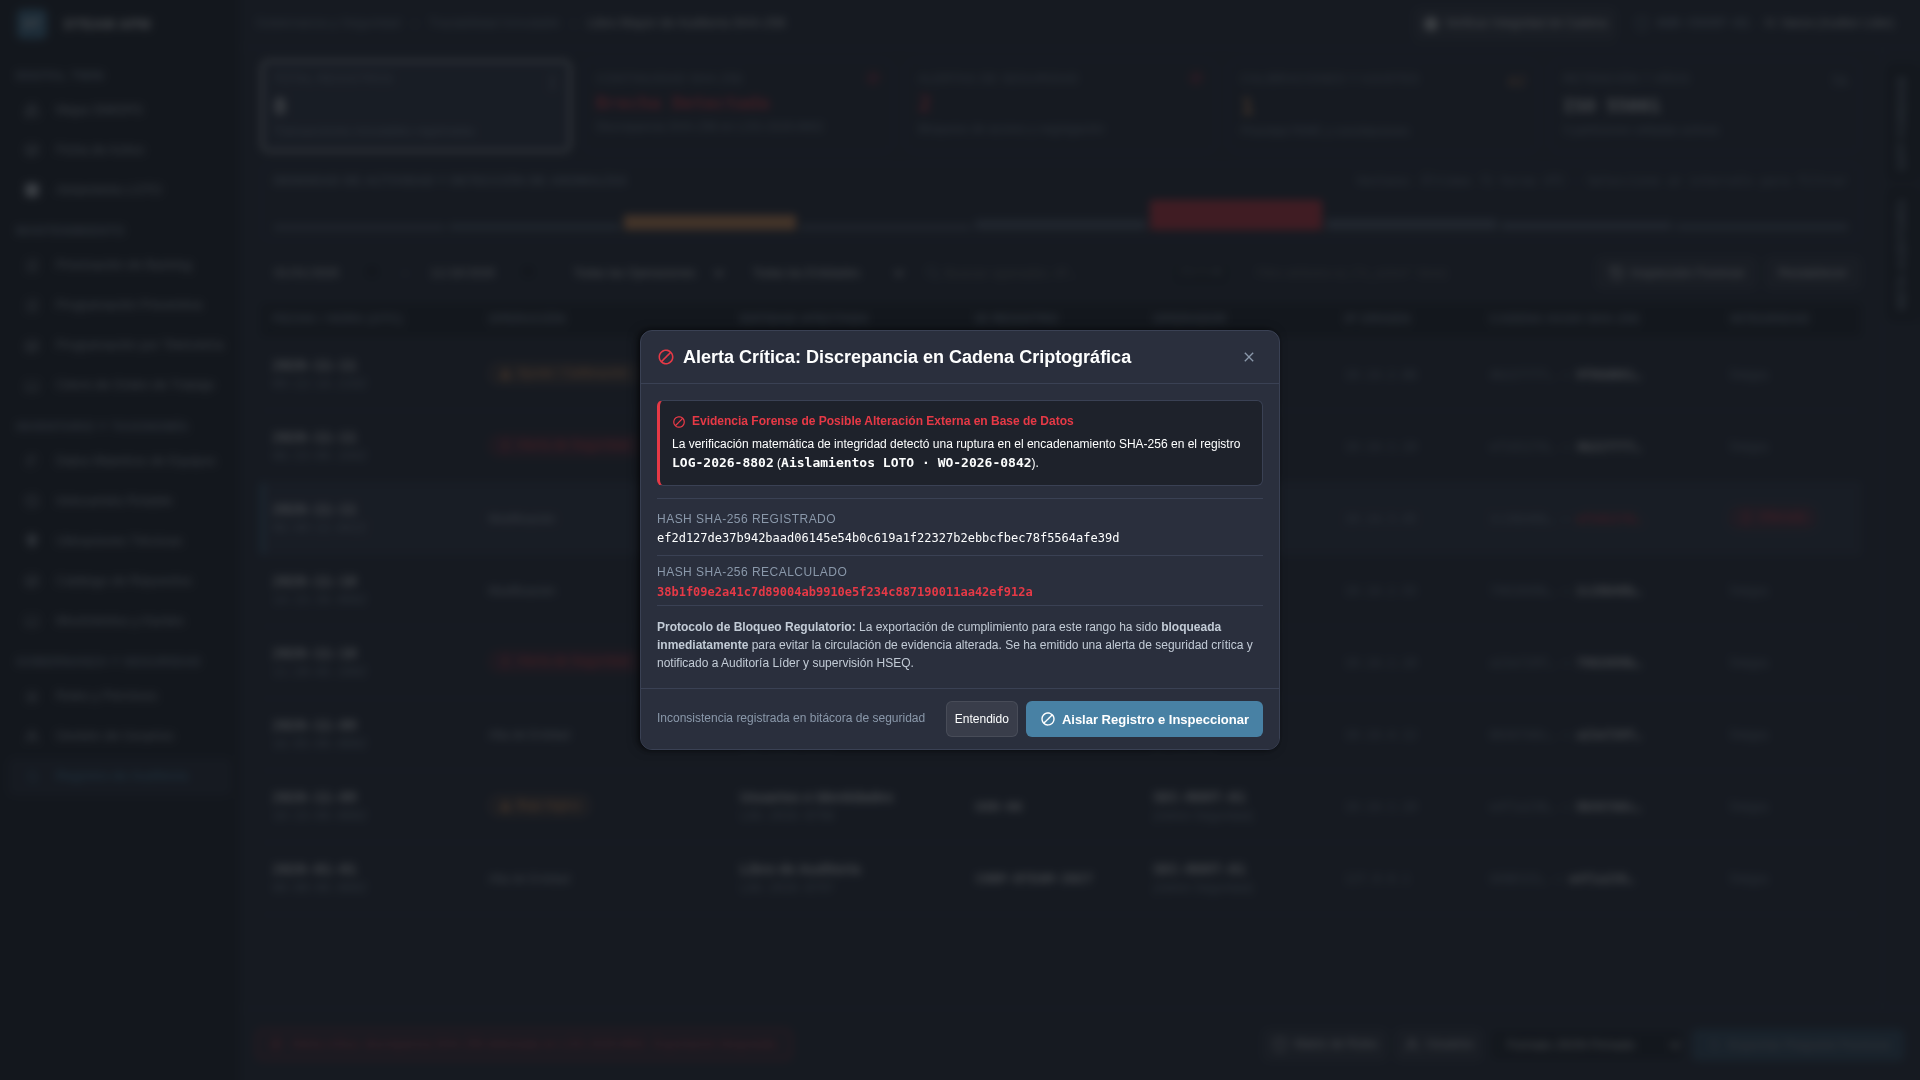
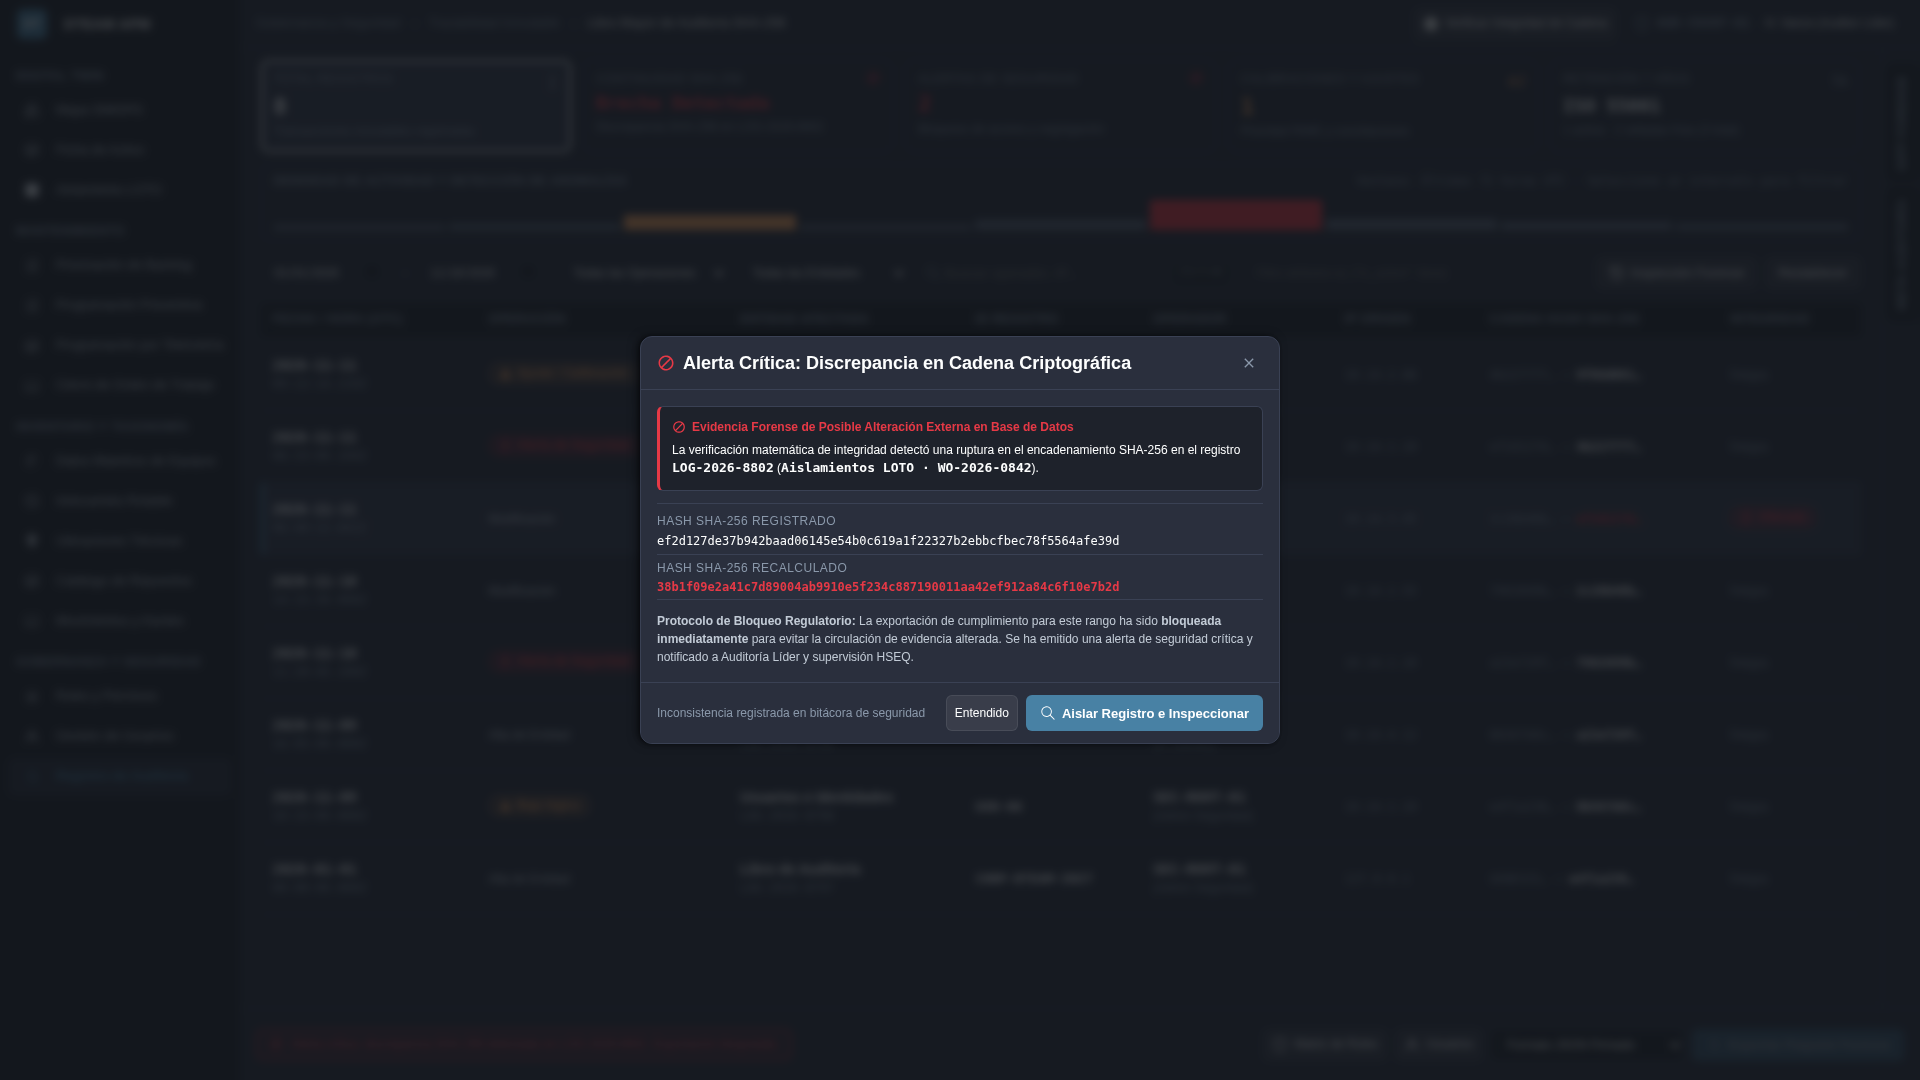
fix(adm-032,arq,erd): remediate audit findings and adopt dynamic quarterly audit partitions

Changed region(s): [[0.3438, 0.3056, 0.6562, 0.7028]]

diff --git a/ui-ux/screens/adm/SCR-ADM-032.md b/ui-ux/screens/adm/SCR-ADM-032.md
@@ -31,7 +31,7 @@ status: Stable
 * **Web Portal Workspace Invariant:** Operates within the unified Blazor Web Portal shell alongside an **on-demand, closed-by-default** right-hand workspace dock (`CMP-12` hosting `CMP-08`/`CMP-09` and `CMP-11`) using the vertical tab spine pattern (`CLS = 0`). The dock initializes closed (`IsOpen = false`), opens on ledger row selection, vertical spine tab selection, or via `[Forensic Inspection]` (`CMP-04`), and closes cleanly on outside click, close trigger, or `Escape`.
 * **Upstream & Downstream Navigation Invariants ([DT-UI-NAV-DOC-001 §5](../../DT-UI-NAV-DOC-001.md#5-transition-matrix-and-access-control-rbac)):**
   * **Upstream Continuity:** Accessed from the Web Portal Governance sidebar, from the RBAC Matrix ([SCR-ADM-013](SCR-ADM-013.md)) via `"Audit Modification"` (`L2` $\to$ `L2`), or from User Management ([SCR-ADM-014](SCR-ADM-014.md)) via `"Forensic Audit"` (`L2` $\to$ `L2`).
-  * **Downstream Transitions:** Routes back to the RBAC Matrix ([SCR-ADM-013](SCR-ADM-013.md)) and User Management ([SCR-ADM-014](SCR-ADM-014.md)) via sticky footer handoffs (`CMP-13`), supports URL query pre-filtering (`EntityType`, `EntityId`, `EventType`) for deep-linked entity investigations (such as `EquipmentUnit` records from [SCR-INV-005](../inv/SCR-INV-005.md) or RIME `ADJUST` calibrations from [SCR-MTTO-026](../mtto/SCR-MTTO-026.md)), and exports standalone signed `CSV` / `JSON` audit packages (`FR-353`).
+  * **Downstream Transitions:** Routes back to the RBAC Matrix ([SCR-ADM-013](SCR-ADM-013.md)) and User Management ([SCR-ADM-014](SCR-ADM-014.md)) via sticky footer handoffs (`CMP-13`), supports URL query pre-filtering (`EntityType`, `EntityId`, `ActionType`) for deep-linked entity investigations (such as `EquipmentUnit` records from [SCR-INV-005](../inv/SCR-INV-005.md) or RIME `ADJUST` calibrations from [SCR-MTTO-026](../mtto/SCR-MTTO-026.md)), and exports standalone signed `CSV` / `JSON` audit packages (`FR-353`).
 
 ---
 
@@ -282,7 +282,7 @@ sequenceDiagram
 #### 5.3.2. Chained SHA-256 Verification & Tamper-Evident Breach Protocol (`FR-346`, `FR-351`, `AF-001`, `ADR-003`)
 1. **Hash-Chain Mathematical Contract (`AuditLog.VerifyIntegrity()`, [DT-DM-DOC-002 §6.3](../../../domain-models/class/DT-DM-DOC-002.md#63-auditlog-entity)):**
    For chronological record $k$ ($k \ge 1$, where $H_0 = \text{"GENESIS"}$ per [DT-ERD-DOC-001 §3.5.1](../../../domain-models/entity-relationship/DT-ERD-DOC-001.md#351-audit_logs)):
-   $$H_k = \text{SHA-256}\left(H_{k-1} \parallel \text{Id}_k \parallel \text{UserId}_k \parallel \text{EventType}_k \parallel \text{EntityType}_k \parallel \text{EntityId}_k \parallel \text{TimestampUtc}_k \parallel \text{CanonicalJson}(\text{PrevState}_k) \parallel \text{CanonicalJson}(\text{NewState}_k)\right)$$
+   $$H_k = \text{SHA-256}\left(H_{k-1} \parallel \text{Id}_k \parallel \text{UserId}_k \parallel \text{ActionType}_k \parallel \text{EntityType}_k \parallel \text{EntityId}_k \parallel \text{TimestampUtc}_k \parallel \text{CanonicalJson}(\text{PrevState}_k) \parallel \text{CanonicalJson}(\text{NewState}_k)\right)$$
 2. **Tamper Breach Quarantine (`AF-001`):** If $H_k^{\text{recalculated}} \ne H_k^{\text{stored}}$ or $H_{k-1}^{\text{linked}} \ne H_{k-1}^{\text{stored}}$, `CMP-10` immediately blocks `[Export Forensic Package]` in `CMP-13`, highlights the exact broken link, and dispatches a `SECURITY_ALERT` notification (`TR-003-NFR-380`).
 
 #### 5.3.3. Self-Referential Meta-Auditing & 7-Year Regulatory Retention (`FR-350`, `FR-353`, `FR-358`, `NFR-359`, `NFR-360`)
@@ -335,8 +335,8 @@ public string? InitialEntityTypeFilter { get; set; }
 [Parameter, SupplyParameterFromQuery(Name = "entityId")]
 public Guid? InitialEntityIdFilter { get; set; }
 
-[Parameter, SupplyParameterFromQuery(Name = "eventType")]
-public AuditActionType? InitialEventTypeFilter { get; set; }
+[Parameter, SupplyParameterFromQuery(Name = "actionType")]
+public AuditActionType? InitialActionTypeFilter { get; set; }
 ```
 
 #### 7.2.2. Subcomponent Parameter Contracts (`CMP-01` to `CMP-13`)
@@ -410,14 +410,14 @@ public EventCallback<AuditLogEntryDto> OnEntrySelected { get; set; }
 
 // CMP-07: AuditEventBadge.razor
 [Parameter]
-public required AuditActionType EventType { get; set; }
+public required AuditActionType ActionType { get; set; }
 
 [Parameter]
 public required ChainIntegrityStatus IntegrityStatus { get; set; }
 
 // CMP-12: AuditWorkspaceDock.razor
 [Parameter]
-public bool IsOpen { get; set; }
+public bool IsOpen { get; set; } = false;
 
 [Parameter]
 public AuditDockTab ActiveTab { get; set; } = AuditDockTab.FORENSIC_DIFF;
@@ -463,7 +463,7 @@ public EventCallback OnCloseRequested { get; set; }
 
 // CMP-11: MetaAuditAndRetentionPane.razor (FR-350, FR-358, NFR-360)
 [Parameter]
-public required IReadOnlyList<AuditLogEntryDto> RecentMetaAuditQueries { get; set; }
+public required IReadOnlyList<MetaAuditQueryEntryDto> RecentMetaAuditQueries { get; set; }
 
 [Parameter]
 public required IReadOnlyList<AuditRetentionPartitionDto> RetentionPartitions { get; set; }
@@ -473,7 +473,7 @@ public required IReadOnlyList<AuditRetentionPartitionDto> RetentionPartitions { 
 public required ChainIntegrityStatus OverallChainStatus { get; set; }
 
 [Parameter]
-public required int VerifiedRecordsCount { get; set; }
+public required long VerifiedRecordsCount { get; set; }
 
 [Parameter]
 public required string HeadIntegrityHash { get; set; }
@@ -547,7 +547,7 @@ public record AuditLogWorkspaceDto
     public required IReadOnlyList<AuditActivityBucketDto> TrendBuckets { get; init; }
     public required IReadOnlyList<AuditLogEntryDto> Entries { get; init; }
     public required IReadOnlyList<AuditRetentionPartitionDto> RetentionPartitions { get; init; }
-    public required IReadOnlyList<AuditLogEntryDto> RecentMetaAuditQueries { get; init; }
+    public required IReadOnlyList<MetaAuditQueryEntryDto> RecentMetaAuditQueries { get; init; }
     public required string HeadIntegrityHash { get; init; }
 }
 
@@ -565,9 +565,10 @@ public record AuditLogQueryFilterDto
 {
     public DateTimeOffset? DateFromUtc { get; init; }
     public DateTimeOffset? DateToUtc { get; init; }
-    public AuditActionType? EventType { get; init; }
+    public AuditActionType? ActionType { get; init; }
     public string? EntityType { get; init; }
     public Guid? EntityId { get; init; }
+    public string? SearchQuery { get; init; }
     public string? OperatorUsername { get; init; }
     public string? IpAddress { get; init; }
     public string? JsonbContainmentExpression { get; init; }
@@ -585,11 +586,14 @@ public record AuditActivityBucketDto
 public record AuditLogEntryDto
 {
     public required Guid Id { get; init; }
+    public required string AuditReferenceCode { get; init; }
     public Guid? UserId { get; init; }
     public required string OperatorBadgeCode { get; init; }
-    public required AuditActionType EventType { get; init; }
+    public required string OperatorFullName { get; init; }
+    public required AuditActionType ActionType { get; init; }
     public required string EntityType { get; init; }
     public required Guid EntityId { get; init; }
+    public required string EntityDisplayCode { get; init; }
     public required DateTimeOffset TimestampUtc { get; init; }
     public string? IpAddress { get; init; }
     public required string PreviousHash { get; init; }
@@ -612,12 +616,14 @@ public record AuditStatePropertyDiffDto
 public record AuditLogDetailDto
 {
     public required Guid Id { get; init; }
+    public required string AuditReferenceCode { get; init; }
     public Guid? UserId { get; init; }
     public required string OperatorBadgeCode { get; init; }
     public required string OperatorFullName { get; init; }
-    public required AuditActionType EventType { get; init; }
+    public required AuditActionType ActionType { get; init; }
     public required string EntityType { get; init; }
     public required Guid EntityId { get; init; }
+    public required string EntityDisplayCode { get; init; }
     public required DateTimeOffset TimestampUtc { get; init; }
     public string? IpAddress { get; init; }
     public string? UserAgent { get; init; }
@@ -661,6 +667,14 @@ public record AuditRetentionPartitionDto
     public required string PartitionAnchorHash { get; init; }
     public required bool IsColdArchived { get; init; }
     public required ChainIntegrityStatus IntegrityStatus { get; init; }
+}
+
+public record MetaAuditQueryEntryDto
+{
+    public required string MetaReferenceCode { get; init; }
+    public required string OperatorBadgeCode { get; init; }
+    public required DateTimeOffset ExecutedAtUtc { get; init; }
+    public required string QueryDescription { get; init; }
 }
 ```
 

diff --git a/architecture/DT-ARQ-DB-DOC-001.md b/architecture/DT-ARQ-DB-DOC-001.md
@@ -92,5 +92,5 @@ When an Application Command must mutate state across multiple schemas atomically
 Domain events published via `IEventBus` (`WorkOrderStatusChanged`, `AssetSwapCompletedEvent`, `EquipmentDecommissioned`) execute **in-process and pre-commit** within the active shared `DbTransaction` whenever the subscriber enforces a synchronous domain invariant (such as deducting reserved stock in `inv` upon Work Order technical closure in `mtto`). Side-effect handlers that communicate with external I/O (such as `INotificationPort` SignalR broadcasts) are dispatched **post-commit** only after `dbTransaction.CommitAsync()` succeeds.
 
 ### 3.11. 7-Year Declarative Range Partitioning and Cold-Archive Anchoring ([ADM-032](../requirements/user-stories/adm/ADM-032.md), [FR-350](../requirements/user-stories/adm/ADM-032.md#functional-requirements-fr), [FR-358](../requirements/user-stories/adm/ADM-032.md#functional-requirements-fr))
-To sustain sub-second forensic queries (`NFR-355`) and enforce the mandatory 7-year regulatory retention window (`TR-001-FR-367`, ISO 55001 Clause 7.5), `adm.audit_logs` is partitioned declaratively in PostgreSQL 18 by quarterly UTC ranges (`PARTITION BY RANGE (timestamp)`), enforcing composite uniqueness `(id, timestamp)` and `(integrity_hash, timestamp)` across all child partitions. The baseline physical layout provisions quarterly range partitions (`adm.part_audit_2026_q2`, `adm.part_audit_2026_q3`, `adm.part_audit_2026_q4`) together with a mandatory catch-all default partition (`adm.part_audit_default`, `PARTITION OF adm.audit_logs DEFAULT`) so `INSERT` transactions never fail if an event lands outside pre-provisioned boundaries prior to next-quarter rotation. As quarterly windows age out of the active hot tier, background archival seals the segment into encrypted cold WORM storage (`TR-002`) and records the segment's boundary metadata (`partition_name`, `period_start`, `period_end`, `record_count`, `partition_anchor_hash`, `is_cold_archived`, `integrity_status`, `sealed_at`) in `adm.audit_retention_partitions`—indexed via the descending composite B-Tree index `idx_audit_retention_partitions_period (period_start DESC, period_end DESC)` for sub-millisecond active/sealed window resolution—preserving unbroken SHA-256 chain verification (`ADR-003`) across hot and cold partitions.
+To sustain sub-second forensic queries (`NFR-355`) and enforce the mandatory 7-year regulatory retention window (`TR-001-FR-367`, ISO 55001 Clause 7.5), `adm.audit_logs` is partitioned declaratively in PostgreSQL 18 by quarterly UTC ranges (`PARTITION BY RANGE (timestamp)`), enforcing composite uniqueness `(id, timestamp)` and `(integrity_hash, timestamp)` across all child partitions alongside defense-in-depth WORM hardening (`ENABLE` + `FORCE ROW LEVEL SECURITY` and `REVOKE UPDATE, DELETE, TRUNCATE ON adm.audit_logs` and child partitions from `PUBLIC` for non-superuser `NOBYPASSRLS` application roles). Instead of static hardcoded dates, baseline DDL deployment executes an idempotent dynamic PL/pgSQL bootstrap (`DO $$`) deriving quarterly UTC boundaries (`date_trunc('year', timezone('UTC', now()))`) to pre-provision all four quarters of the current calendar year (`Q1`–`Q4`) plus a next-year `Q1` lookahead (`adm.part_audit_<YYYY>_q<N>`), paired with a mandatory catch-all default partition (`adm.part_audit_default`, `PARTITION OF adm.audit_logs DEFAULT`) so `INSERT` transactions never fail before scheduled quarterly rotation; ongoing future quarters are provisioned ahead of boundary rollover by `pg_cron` or the .NET `AuditPartitionProvisioningJob`. As quarterly windows age out of the active hot tier, background archival seals each segment into encrypted cold WORM storage (`TR-002`) and records boundary metadata (`partition_name`, `period_start`, `period_end`, `record_count`, `partition_anchor_hash`, `is_cold_archived`, `integrity_status`, `sealed_at`) in `adm.audit_retention_partitions`—indexed via the descending composite B-Tree index `idx_audit_retention_partitions_period (period_start DESC, period_end DESC)` for sub-millisecond active/sealed window resolution—preserving unbroken SHA-256 chain verification (`ADR-003`) across hot and cold partitions.
 

diff --git a/ui-ux/DT-UI-NAV-DOC-001.md b/ui-ux/DT-UI-NAV-DOC-001.md
@@ -196,8 +196,12 @@ The following table defines the transition rules between screens, triggering eve
 | [SCR-INV-005](screens/inv/SCR-INV-005.md)       | Click on "Physical Replacement"                               | [SCR-INV-025](screens/inv/SCR-INV-025.md)            |  L3 $\to$ L4  | Technician, Supervisor, Warehouse Manager             |
 | [SCR-ADM-014](screens/adm/SCR-ADM-014.md)       | Click on "Edit Privileges"                             | [SCR-ADM-013](screens/adm/SCR-ADM-013.md)            |  L2 $\to$ L2  | Administrator                                 |
 | [SCR-ADM-013](screens/adm/SCR-ADM-013.md)       | Click on "Manage Users"                                | [SCR-ADM-014](screens/adm/SCR-ADM-014.md)            |  L2 $\to$ L2  | Administrator                                 |
-| [SCR-ADM-013](screens/adm/SCR-ADM-013.md)       | Click on "Audit Modification"                          | [SCR-ADM-032](screens/adm/SCR-ADM-032.md)            |  L2 $\to$ L2  | Administrator, Auditor                        |
-| [SCR-ADM-014](screens/adm/SCR-ADM-014.md)       | Click on "Forensic Audit"                              | [SCR-ADM-032](screens/adm/SCR-ADM-032.md)            |  L2 $\to$ L2  | Administrator, Auditor                        |
+| [SCR-ADM-013](screens/adm/SCR-ADM-013.md)       | Click on "Audit Modification"                          | [SCR-ADM-032](screens/adm/SCR-ADM-032.md)            |  L2 $\to$ L2  | Administrator, Auditor, Plant Manager         |
+| [SCR-ADM-014](screens/adm/SCR-ADM-014.md)       | Click on "Forensic Audit"                              | [SCR-ADM-032](screens/adm/SCR-ADM-032.md)            |  L2 $\to$ L2  | Administrator, Auditor, Plant Manager         |
+| [SCR-ADM-032](screens/adm/SCR-ADM-032.md)       | Click on "Roles Matrix" (CMP-13)                       | [SCR-ADM-013](screens/adm/SCR-ADM-013.md)            |  L2 $\to$ L2  | Administrator                                 |
+| [SCR-ADM-032](screens/adm/SCR-ADM-032.md)       | Click on "Users" (CMP-13)                              | [SCR-ADM-014](screens/adm/SCR-ADM-014.md)            |  L2 $\to$ L2  | Administrator                                 |
+| [SCR-INV-005](screens/inv/SCR-INV-005.md)       | Deep-link Asset Audit History (`EntityType=EquipmentUnit`) | [SCR-ADM-032](screens/adm/SCR-ADM-032.md)         |  L3 $\to$ L2  | Administrator, Auditor, Plant Manager         |
+| [SCR-MTTO-026](screens/mtto/SCR-MTTO-026.md)    | Deep-link RIME Calibration Audit (`ActionType=ADJUST`) | [SCR-ADM-032](screens/adm/SCR-ADM-032.md)            |  L2 $\to$ L2  | Administrator, Auditor, Plant Manager         |
 
 ---
 
